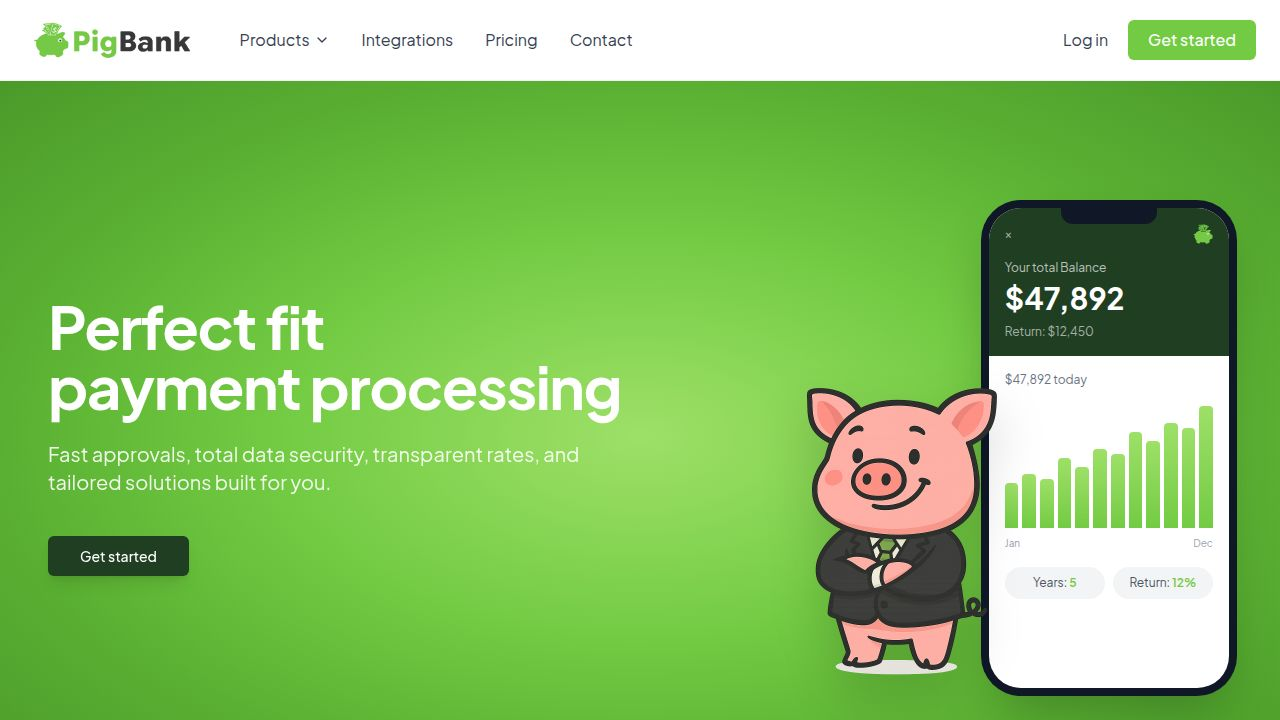
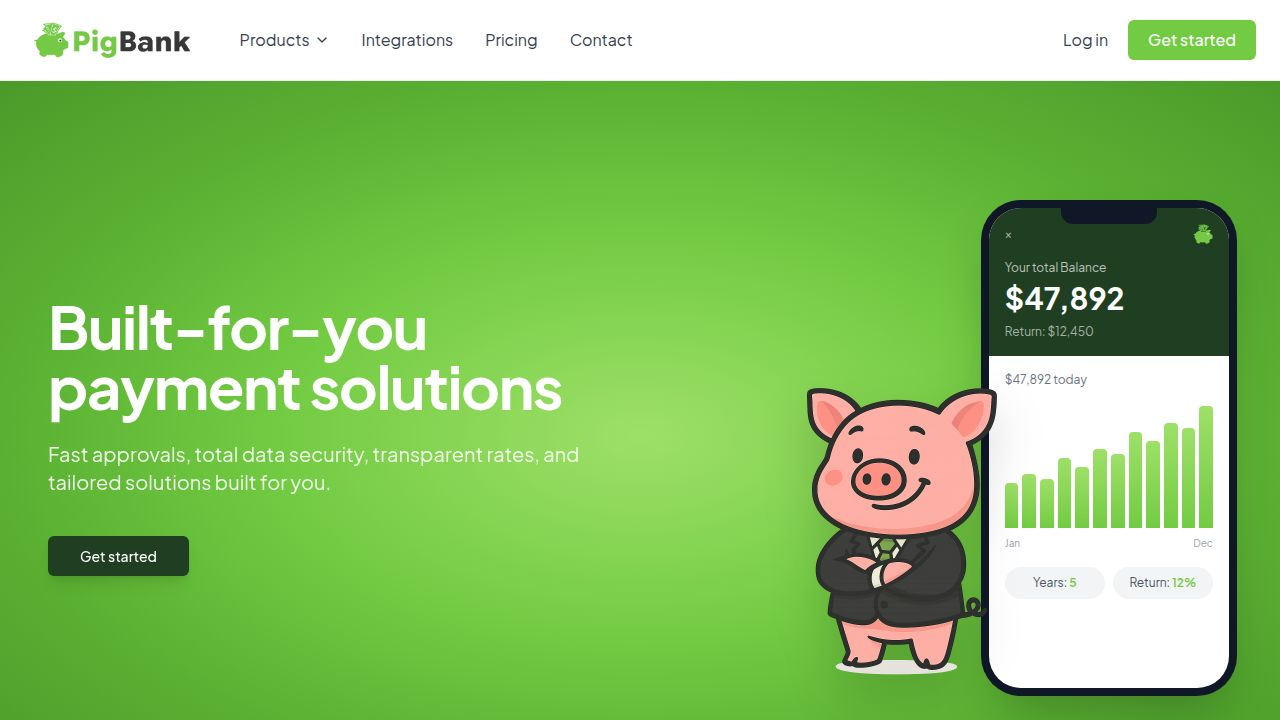
Update landing page headline to be more user-centric
Modify the main headline on the landing page from "Perfect fit payment processing" to "Built-for-you payment solutions" in `Landing.tsx`.

Replit-Commit-Author: Agent
Replit-Commit-Session-Id: bccbbd43-6d21-44eb-a98e-c8118402ec1f
Replit-Commit-Checkpoint-Type: intermediate_checkpoint
Replit-Commit-Event-Id: a45b3644-71fa-40be-86a9-be053dcf3043
Replit-Commit-Screenshot-Url: https://storage.googleapis.com/screenshot-production-us-central1/ee567252-c1f1-45c7-bba9-ef8d3212ce6e/bccbbd43-6d21-44eb-a98e-c8118402ec1f/vlvdLEr
Replit-Helium-Checkpoint-Created: true

Changed region(s): [[0.0312, 0.4278, 0.5, 0.5806]]

diff --git a/client/src/pages/Landing.tsx b/client/src/pages/Landing.tsx
@@ -709,8 +709,8 @@ export default function Landing() {
                     <div className="flex flex-col lg:flex-row items-center gap-8 lg:gap-12">
                       <div className="lg:w-3/5 space-y-6 text-center lg:text-left">
                         <h1 className="text-4xl md:text-5xl lg:text-6xl font-bold tracking-tight text-white">
-                          <span className="whitespace-nowrap">Perfect fit</span><br />
-                          payment processing
+                          <span className="whitespace-nowrap">Built-for-you</span><br />
+                          payment solutions
                         </h1>
                         <p className="text-lg md:text-xl text-white/90 max-w-xl mx-auto lg:mx-0">
                           Fast approvals, total data security, transparent rates, and tailored solutions built for you.
